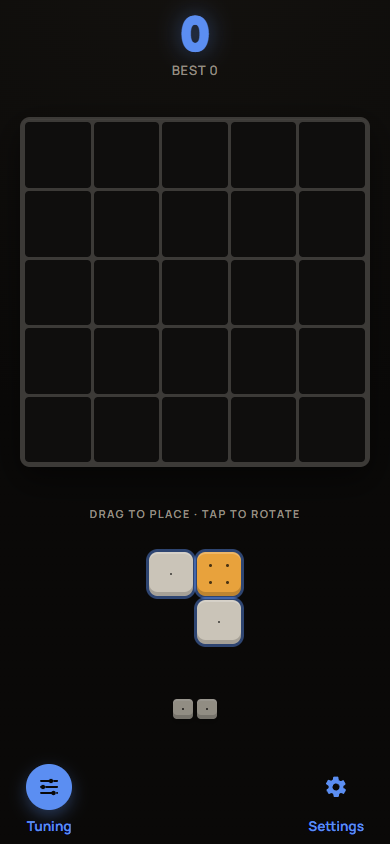
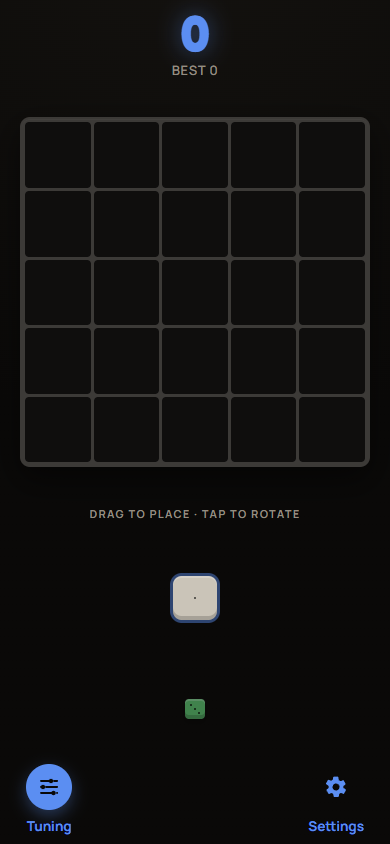
Rapid extra pulses for merges over 3 dice
Each die past the third adds a quick thump and an expanding ring, each
stronger than the last, before the merge resolves.

Changed region(s): [[0.3692, 0.6469, 0.6462, 0.7701], [0.4308, 0.8009, 0.5538, 0.8626]]

diff --git a/src/animate.js b/src/animate.js
@@ -74,27 +74,42 @@ const DiceMergeAnimate = (() => {
     if (extra === 0) return CFG.get('pulseDurationMs');
     return CFG.get('pulseDurationMs')
       + (extra - 1) * CFG.get('pulseBurstIntervalMs')
-      + CFG.get('pulseBurstDurationMs');
+      + Math.max(CFG.get('pulseBurstIntervalMs'), CFG.get('pulseBurstDurationMs'));
   }
 
-  // Marks the cells dice are converging on, on the already-drawn board. Each
-  // extra ripple is its own element with a staggered one-shot animation;
-  // restarting one animation on the die itself reads as flicker.
+  // Marks the cells dice are converging on, on the already-drawn board. After
+  // the first pulse, each die past the third adds a quick thump plus a ring,
+  // each stronger than the last. The survivor sits above the incoming dice so
+  // the train stays visible. `scale` is animated, never `transform`, which the
+  // pulse/pop keyframes own.
   function highlightTargets(boardEl, pops) {
     pops.forEach((pop) => {
       const die = R.cellAt(boardEl, pop.r, pop.c)?.querySelector('.die');
       if (!die) return;
       die.classList.add('die--merge-target');
       const extra = extraPulseCount(pop);
-      if (extra > 0) {
-        die.style.position = 'relative';
-        const intervalMs = CFG.get('pulseBurstIntervalMs');
-        for (let i = 0; i < extra; i++) {
-          const ring = document.createElement('span');
-          ring.className = 'merge-target-ring';
-          ring.style.animationDelay = `${CFG.get('pulseDurationMs') + i * intervalMs}ms`;
-          die.appendChild(ring);
-        }
+      if (extra === 0) return;
+      die.style.position = 'relative';
+      die.style.zIndex = '999';
+      const intervalMs = CFG.get('pulseBurstIntervalMs');
+      const ringMs = CFG.get('pulseBurstDurationMs');
+      for (let i = 0; i < extra; i++) {
+        const delay = CFG.get('pulseDurationMs') + i * intervalMs;
+        const strength = Math.min(1, (i + 1) / 4);
+        die.animate(
+          [{ scale: 1 }, { scale: 1 + 0.06 + 0.1 * strength }, { scale: 1 }],
+          { duration: Math.max(40, intervalMs), delay, easing: 'ease-out' },
+        );
+        const ring = document.createElement('span');
+        ring.className = 'merge-target-ring';
+        die.appendChild(ring);
+        ring.animate(
+          [
+            { opacity: 0.6 + 0.4 * strength, transform: 'scale(1)' },
+            { opacity: 0, transform: `scale(${1.5 + 0.7 * strength})` },
+          ],
+          { duration: ringMs, delay, easing: 'ease-out', fill: 'backwards' },
+        );
       }
     });
   }

diff --git a/src/config.js b/src/config.js
@@ -30,8 +30,8 @@ const DiceMergeConfig = (() => {
 
     { id: 'pulseRingPx', group: 'Merge Impact', label: 'Merge-target pulse ring size', unit: 'px', initial: 10, min: 0, max: 250, step: 2, apply: { type: 'css', varName: '--cfg-pulse-ring', unit: 'px' } },
     { id: 'pulseDurationMs', group: 'Merge Impact', label: 'Merge-target pulse duration', unit: 'ms', initial: 220, min: 0, max: 4000, step: 10, apply: { type: 'css', varName: '--cfg-pulse-duration', unit: 'ms' } },
-    { id: 'pulseBurstDurationMs', group: 'Merge Impact', label: 'Extra ring duration (merges over 3 dice)', unit: 'ms', initial: 140, min: 0, max: 2000, step: 5, apply: { type: 'css', varName: '--cfg-pulse-burst-duration', unit: 'ms' } },
-    { id: 'pulseBurstIntervalMs', group: 'Merge Impact', label: 'Extra ring stagger (time between ripples)', unit: 'ms', initial: 50, min: 0, max: 1000, step: 5, apply: { type: 'main' } },
+    { id: 'pulseBurstDurationMs', group: 'Merge Impact', label: 'Extra pulse ring duration (merges over 3 dice)', unit: 'ms', initial: 220, min: 0, max: 2000, step: 5, apply: { type: 'main' } },
+    { id: 'pulseBurstIntervalMs', group: 'Merge Impact', label: 'Time between extra pulses', unit: 'ms', initial: 80, min: 0, max: 1000, step: 5, apply: { type: 'main' } },
     { id: 'popBaseScale', group: 'Merge Impact', label: 'Merge-pop base scale', unit: '×', initial: 1.15, min: 0.1, max: 8, step: 0.05, apply: { type: 'css', varName: '--cfg-merge-pop-base', unit: '' } },
     { id: 'popPerImpactScale', group: 'Merge Impact', label: 'Merge-pop scale per unit impact', unit: '×', initial: 0.09, min: 0, max: 3, step: 0.01, apply: { type: 'css', varName: '--cfg-merge-pop-per-impact', unit: '' } },
     { id: 'popScaleCap', group: 'Merge Impact', label: 'Merge-pop scale cap', unit: '×', initial: 1.6, min: 1, max: 15, step: 0.1, apply: { type: 'css', varName: '--cfg-merge-pop-cap', unit: '' } },

diff --git a/styles.css b/styles.css
@@ -170,20 +170,14 @@ body {
   animation: die-merge-target-pulse var(--cfg-pulse-duration) ease-out;
 }
 
-@keyframes die-merge-target-ring-pulse {
-  from { transform: scale(1); opacity: 1; }
-  to { transform: scale(1.7); opacity: 0; }
-}
-
+/* Animated from animate.js; invisible otherwise. */
 .merge-target-ring {
   position: absolute;
   inset: 0;
   border-radius: inherit;
   pointer-events: none;
-  box-shadow: 0 0 0 2px var(--accent);
-
+  box-shadow: 0 0 0 3px var(--accent), 0 0 12px 2px var(--accent-soft);
   opacity: 0;
-  animation: die-merge-target-ring-pulse var(--cfg-pulse-burst-duration) ease-out;
 }
 
 @keyframes die-merge-pop {
